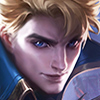
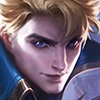
Compress images without changing resolution and keep site references working.

diff --git a/oyun.html b/oyun.html
@@ -46,10 +46,10 @@
               <img src="images/about-angela.png?v=3" alt="Angela" loading="lazy" />
             </figure>
             <figure class="about-cast-card">
-              <img src="images/about-kagura.png?v=3" alt="Kagura" loading="lazy" />
+              <img src="images/about-kagura.jpg?v=3" alt="Kagura" loading="lazy" />
             </figure>
             <figure class="about-cast-card">
-              <img src="images/about-floryn.png?v=3" alt="Floryn" loading="lazy" />
+              <img src="images/about-floryn.jpg?v=3" alt="Floryn" loading="lazy" />
             </figure>
           </div>
         </div>
@@ -107,7 +107,7 @@
         <p class="section-lead" data-i18n="map_lead">Three lanes, jungle, Turtle, Lord — know the battlefield.</p>
         <div class="map-layout">
           <figure class="map-annotate">
-            <img src="images/mlbb-battle-map-real.png" alt="Mobile Legends Land of Dawn battlefield map" width="1006" height="653" loading="lazy" />
+            <img src="images/mlbb-battle-map-real.jpg" alt="Mobile Legends Land of Dawn battlefield map" width="1006" height="653" loading="lazy" />
             <ol class="map-pins" aria-hidden="true">
               <li style="left:11%;top:76%"><span>1</span></li>
               <li style="left:18%;top:22%"><span>2</span></li>
